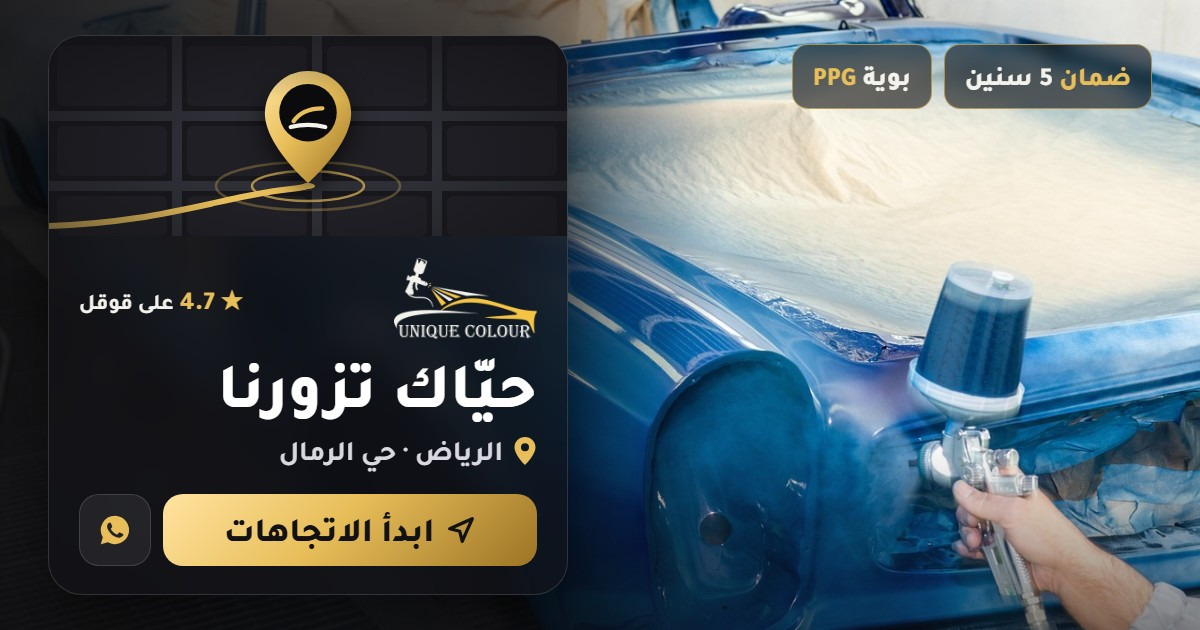
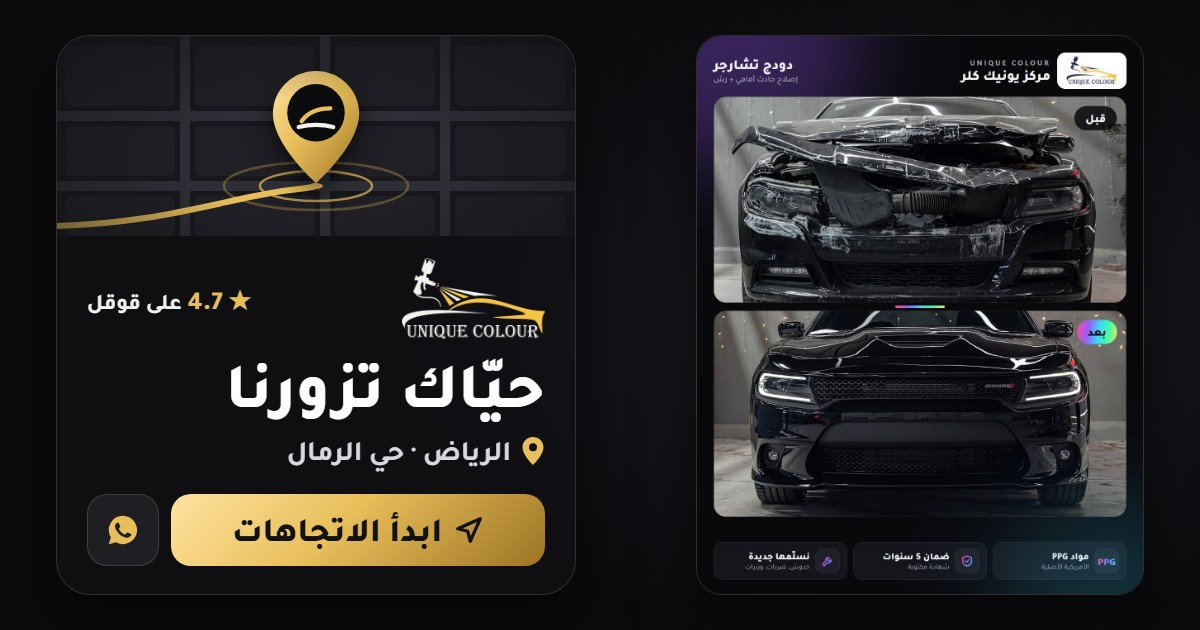
Map page: use own before/after (Dodge Charger) image, uncropped

diff --git a/map/index.html b/map/index.html
@@ -12,14 +12,14 @@
 <meta property="og:title" content="📍 موقع مركز يونيك كلر: الرياض، حي الرمال">
 <meta property="og:description" content="حيّاك تزورنا. سمكرة وصبغ ببوية PPG الأمريكية، وضمان 5 سنين. اضغط وابدأ الاتجاهات.">
 <meta property="og:url" content="https://uniquecolour-sa.github.io/map/">
-<meta property="og:image" content="https://uniquecolour-sa.github.io/assets/og-map.jpg?v=12">
-<meta property="og:image:secure_url" content="https://uniquecolour-sa.github.io/assets/og-map.jpg?v=12">
+<meta property="og:image" content="https://uniquecolour-sa.github.io/assets/og-map.jpg?v=13">
+<meta property="og:image:secure_url" content="https://uniquecolour-sa.github.io/assets/og-map.jpg?v=13">
 <meta property="og:image:type" content="image/jpeg">
 <meta property="og:image:width" content="1200">
 <meta property="og:image:height" content="630">
 <meta property="og:image:alt" content="موقع مركز يونيك كلر على الخريطة">
 <meta name="twitter:card" content="summary_large_image">
-<meta name="twitter:image" content="https://uniquecolour-sa.github.io/assets/og-map.jpg?v=12">
+<meta name="twitter:image" content="https://uniquecolour-sa.github.io/assets/og-map.jpg?v=13">
 <link rel="canonical" href="https://uniquecolour-sa.github.io/map/">
 <link rel="stylesheet" href="/fonts/tajawal.css">
 <style>
@@ -37,24 +37,21 @@
   .app { max-width: 480px; margin: 0 auto; position: relative; padding-bottom: calc(110px + env(safe-area-inset-bottom)); }
 
   /* hero */
-  .hero { position: relative; height: 62svh; min-height: 420px; max-height: 600px; overflow: hidden; }
-  .hero .car { position: absolute; inset: -6%; background: url(/assets/booth-spray.jpg) 82% 50% / cover no-repeat;
-    animation: kb 18s ease-in-out infinite alternate; }
-  @keyframes kb { from { transform: scale(1.04) translateY(0); } to { transform: scale(1.14) translateY(-2%); } }
-  .hero::after { content: ""; position: absolute; inset: 0;
-    background: linear-gradient(180deg, rgba(11,11,13,.65) 0%, rgba(11,11,13,0) 26%, rgba(11,11,13,0) 46%, rgba(11,11,13,.85) 80%, var(--bg) 100%); }
-  .top { position: absolute; z-index: 3; top: 0; left: 0; right: 0; display: flex; justify-content: space-between; align-items: center;
+  .hero { position: relative; padding-bottom: 18px; background: radial-gradient(ellipse 120% 70% at 50% 0%, #1d1b26 0%, var(--bg) 70%); }
+  .top { position: relative; z-index: 3; display: flex; justify-content: space-between; align-items: center;
     padding: calc(14px + env(safe-area-inset-top)) 16px 0; }
   .top img { height: 54px; width: auto; }
   .badge { display: inline-flex; align-items: center; gap: 6px; padding: 7px 12px; border-radius: 999px; background: rgba(11,11,13,.55);
     border: 1px solid var(--line); backdrop-filter: blur(10px); -webkit-backdrop-filter: blur(10px); font-size: 14px; font-weight: 700; }
   .badge b { color: var(--gold); }
 
-  .headline { position: absolute; z-index: 3; bottom: 26px; right: 16px; left: 16px; }
+  .headline { position: relative; z-index: 3; margin: 22px 16px 0; }
   .headline .where { display: inline-flex; align-items: center; gap: 8px; font-size: 16px; font-weight: 700; color: var(--gold); letter-spacing: .2px; }
   .headline h1 { font-size: clamp(44px, 13vw, 60px); font-weight: 900; line-height: 1; margin-top: 8px; }
   .headline p { margin-top: 10px; font-size: 17px; color: #d8d6de; font-weight: 500; }
 
+  .work { margin: 0 16px 16px; border-radius: 22px; overflow: hidden; border: 1px solid var(--line); background: #141418; }
+  .work img { display: block; width: 100%; height: auto; }
   /* map card */
   .card { position: relative; margin: 0 16px; border-radius: 26px; overflow: hidden; background: #141418; border: 1px solid var(--line); }
   .mapwrap { position: relative; height: 230px; overflow: hidden; }
@@ -122,7 +119,6 @@
 <body>
 <div class="app">
   <header class="hero">
-    <div class="car" role="img" aria-label="فني يرش بوية سيارة داخل فرن الرش"></div>
     <div class="top rise">
       <img src="/assets/logo-light.png" alt="يونيك كلر">
       <span class="badge"><b>★ 4.7</b> على قوقل</span>
@@ -136,6 +132,7 @@
       <p class="rise d3">مركز متخصص في السمكرة والصبغ… سيارتك ترجع كأنها جديدة.</p>
     </div>
   </header>
+  <figure class="work rise d3"><img src="/assets/work/work-13.jpg" width="1080" height="1350" alt="دودج تشارجر قبل وبعد إصلاح حادث أمامي ورش في يونيك كلر"></figure>
 
   <section class="card rise d4">
     <div class="mapwrap">
